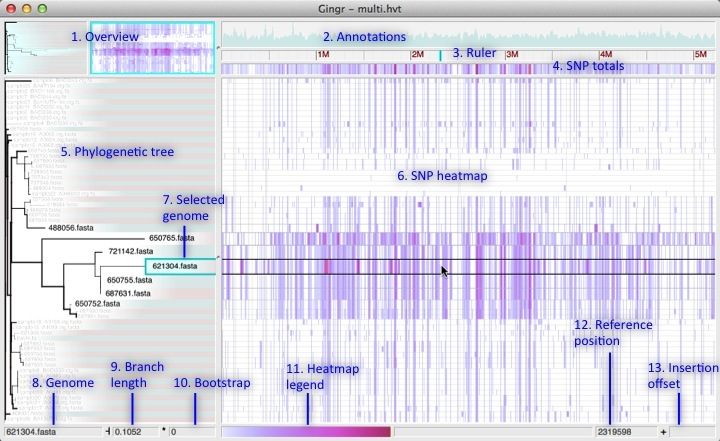
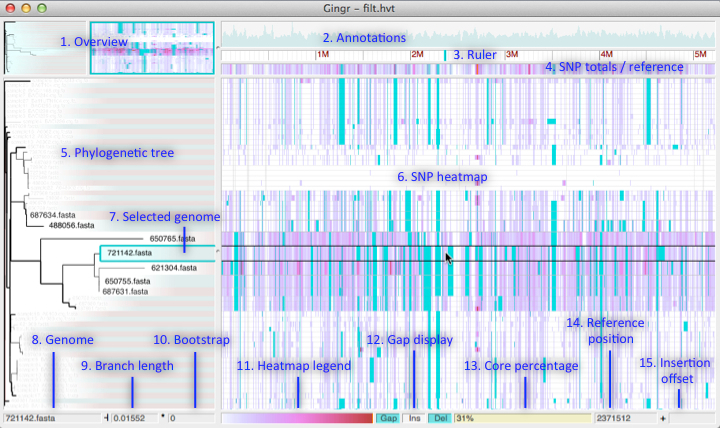
help updated with gap highlighting, annotation search and core percentage

diff --git a/html/index.html b/html/index.html
@@ -8,10 +8,10 @@
 		<h2 id="main">Main window (<a href="#">back to Contents</a>)</h2>
 		<img border=1 src="img/screen.jpg"/>
 		<ol>
-			<li><strong>Overview - </strong>A miniature view of the entire phylogenetic tree and SNP heatmap, with the currently zoomed sections of each highlighted in blue.</li><br/>
-			<li><strong>Annotations - </strong>If a GenBank file was provided, its annotations will appear here. When zoomed out, they are condensed into a density plot. Hover over genes to show more information, and click on them to zoom.</li><br/>
+			<li><p><strong>Overview - </strong>A miniature view of the entire phylogenetic tree and SNP heatmap, with the currently zoomed sections of each highlighted in blue.</p></li>
+			<li><p><strong>Annotations - </strong>If a GenBank file was provided, its annotations will appear here. When zoomed out, they are condensed into a density plot. Hover over genes to show more information, and click on them to zoom.</p></li>
 			<li><strong>Ruler - </strong>Reference-based (ungapped) positions for the current view. Click to re-center; click and drag to zoom in on a region.</li><br/>
-			<li><strong>SNP totals - </strong>SNP density, summed by alignment column and scaled by its own maximum within the current zoom.</li><br/>
+			<li><strong>SNP totals / reference - </strong>When zoomed out, shows SNP density, summed by alignment column and scaled by its own maximum within the current zoom. When zoomed in, shows the reference sequence.</li><br/>
 			<li><strong>Phylogenetic tree - </strong>Use the scroll wheel or click to zoom in on particular clades. To zoom out, use the scroll wheel or click wherever the cursor is an up-arrow (outside zoomable clades). Click on a leaf to enlarge the surrounding leaves, and click again to shrink.</li><br/>
 			<li><strong>SNP heatmap - </strong>Shows SNP density across each genome, scaled by the maximum density at the current zoom. Zoom in with the scroll wheel to see more detail or alignments.</li><br/>
 			<li><strong>Selected genome - </strong>If genomes are too condensed to see, they can be clicked on (either in the phylogenetic tree or the SNP heatmap) to expand them and their neighbors. Click the selected genome again to unselect.</li><br/>
@@ -19,6 +19,8 @@
 			<li><strong>Branch length - </strong>The phylogenetic branch length of the leaf or other node currently under the cursor.</li><br/>
 			<li><strong>Bootstrap - </strong>The bootstrap value of the phylogenetic node currently under the cursor.</li><br/>
 			<li><strong>Heatmap legend - </strong>The color gamut of the SNP heatmap, with increasing SNP density from left to right. When zoomed to alignments, the legend will show base colors, with reference base colors on the left and SNP colors (for SNPs matching the current filter settings in the Variant dialog) to the right.</li><br/>
+			<li><strong>Gap display - </strong>Indicates whether gaps are highlighted for insertions and deletions. Click to toggle.</li><br/>
+			<li><strong>Core percentage - </strong>Shows the percentage of the reference that is covered by core alignments, colored by expected ranges. At or above 50% is good (green); at or above 30% is marnigal (yellow); below 30% (red) should be scrutinized.</li><br/>
 			<li><strong>Reference position - </strong>The (ungapped) reference position currently under the cursor. This position will not change in insertions relative to the reference genome (see "Insertion offset").</li><br/>
 			<li><strong>Insertion offset - </strong>If the cursor is over an insertion relative to the reference, the current position within it, starting from 1 at the first inserted position.</li><br/>
 		</ol>
@@ -36,20 +38,23 @@
 			<li><strong>View</strong>
 				<ul>
 					<li><strong>Synteny</strong> - Toggles synteny coloring, which shows rearrangements implicitly by coloring LCBs by their positions in the core of each genome.
-						<p><img src="img/synteny.jpg"/></p>
-						<li><p><strong>Right-align clades</strong> - Toggles movement of each clade in the phylogenetic tree as far to the right as possible.</p>
-						</li>
-						<li><p><strong>Right-align labels</strong> - Toggles right-alignment the text of the labels.</p>
-						</li>
-						<li><p><strong>Light colors</strong> - Toggles the use of a light color scheme for the SNP heatmap (and alignment, when zoomed).</p>
-							</ul>
+						<p><img src="img/synteny.jpg"/></p><li>
+					<li><p><strong>Right-align clades</strong> - Toggles movement of each clade in the phylogenetic tree as far to the right as possible.</p></li>
+					<li><p><strong>Right-align labels</strong> - Toggles right-alignment for the text of the labels.</p></li>
+					<li><p><strong>Highlight gaps - </strong>Toggles highlighting of gaps in the SNP heatmap.</p></li>
+					<ul>
+						<li><p><strong>...for insertions - </strong>Toggles highlighting of insertions when gaps are highlighted in the SNP heatmap.</p></li>
+						<li><p><strong>...for deletions - </strong>Toggles highlighting of deletions when gaps are highlighted in the SNP heatmap.</p></li>
+					</ul>
+					<li><p><strong>Light colors</strong> - Toggles the use of a light color scheme for the SNP heatmap (and alignment, when zoomed).</p></li>
+				</ul>
 			</li>
 			<li><strong>Window</strong>
 				<ul>
 					<li><p><strong>Variants</strong> - Opens the Variants dialog, which controls filters that are applied to the SNP heatmap. If PASS is checked, SNPs that are not marked with any filters will be shown. If other filters are checked, SNPs marked with those filters will be shown. The Scale button changes the scale of the heatmap colors to the match the maximum SNP density with the current filters applied.</p>
 						<p><img src="img/variants.jpg"/></p>
 					</li>
-					<li><p><strong>Find</strong> - Opens the Find dialog, which allows genomes in the phylogenetic tree to be highlighted based on search terms.</p>
+					<li><p><strong>Find</strong> - Opens the Find dialog, which allows track names and annotations to be highlighted based on search terms.</p>
 						<p><img src="img/find.jpg"/></p>
 					</li>
 				</ul>
